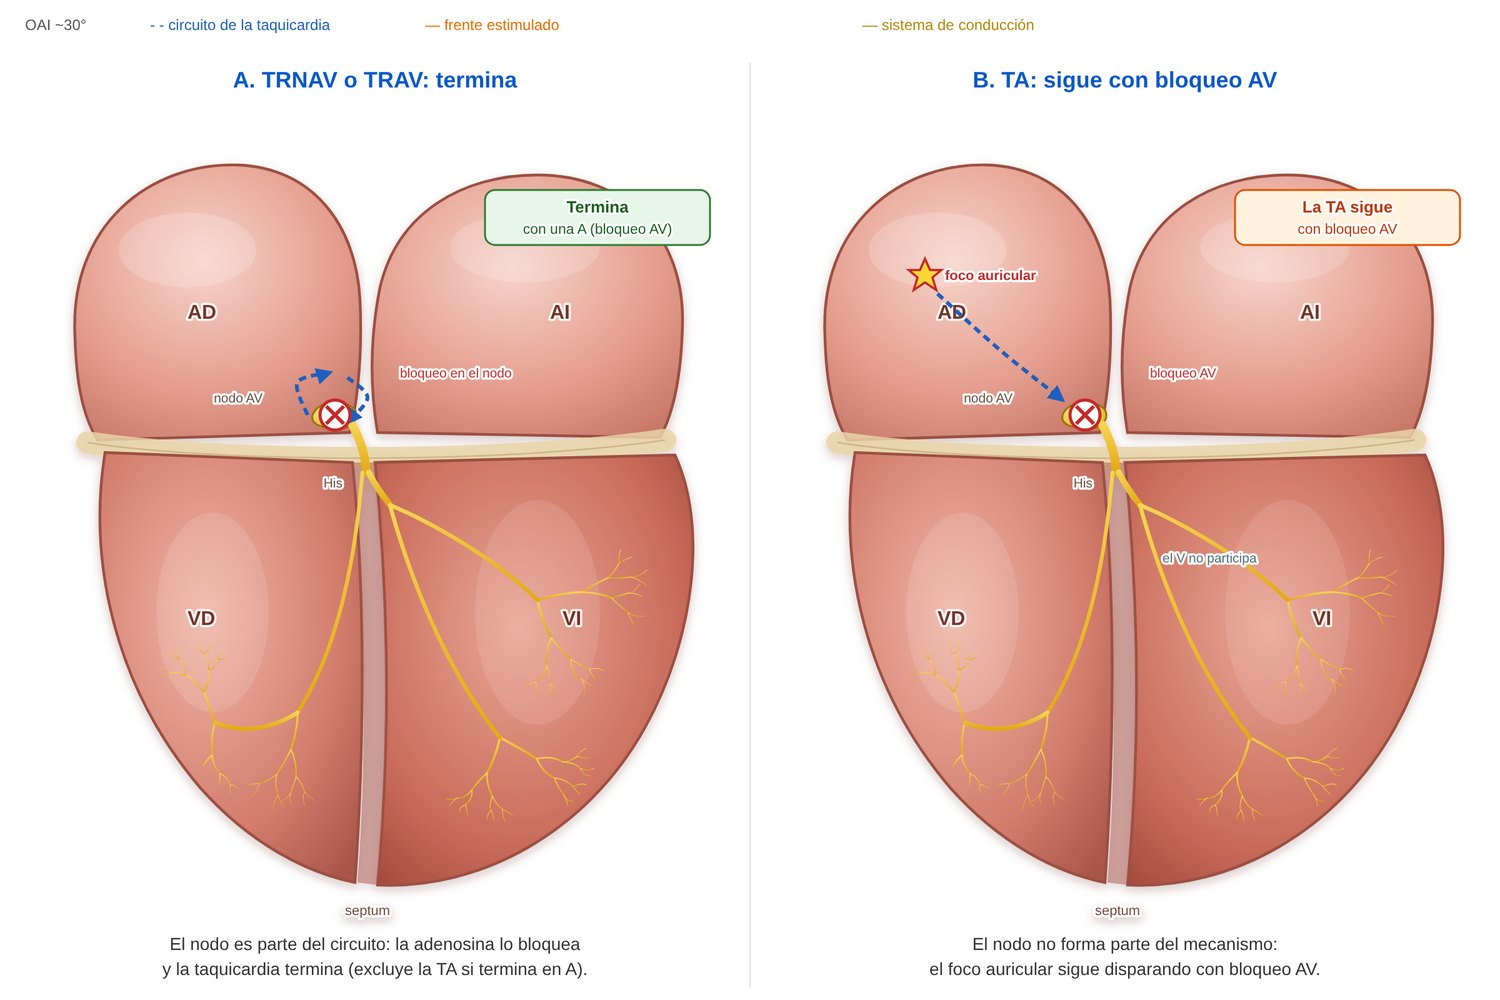
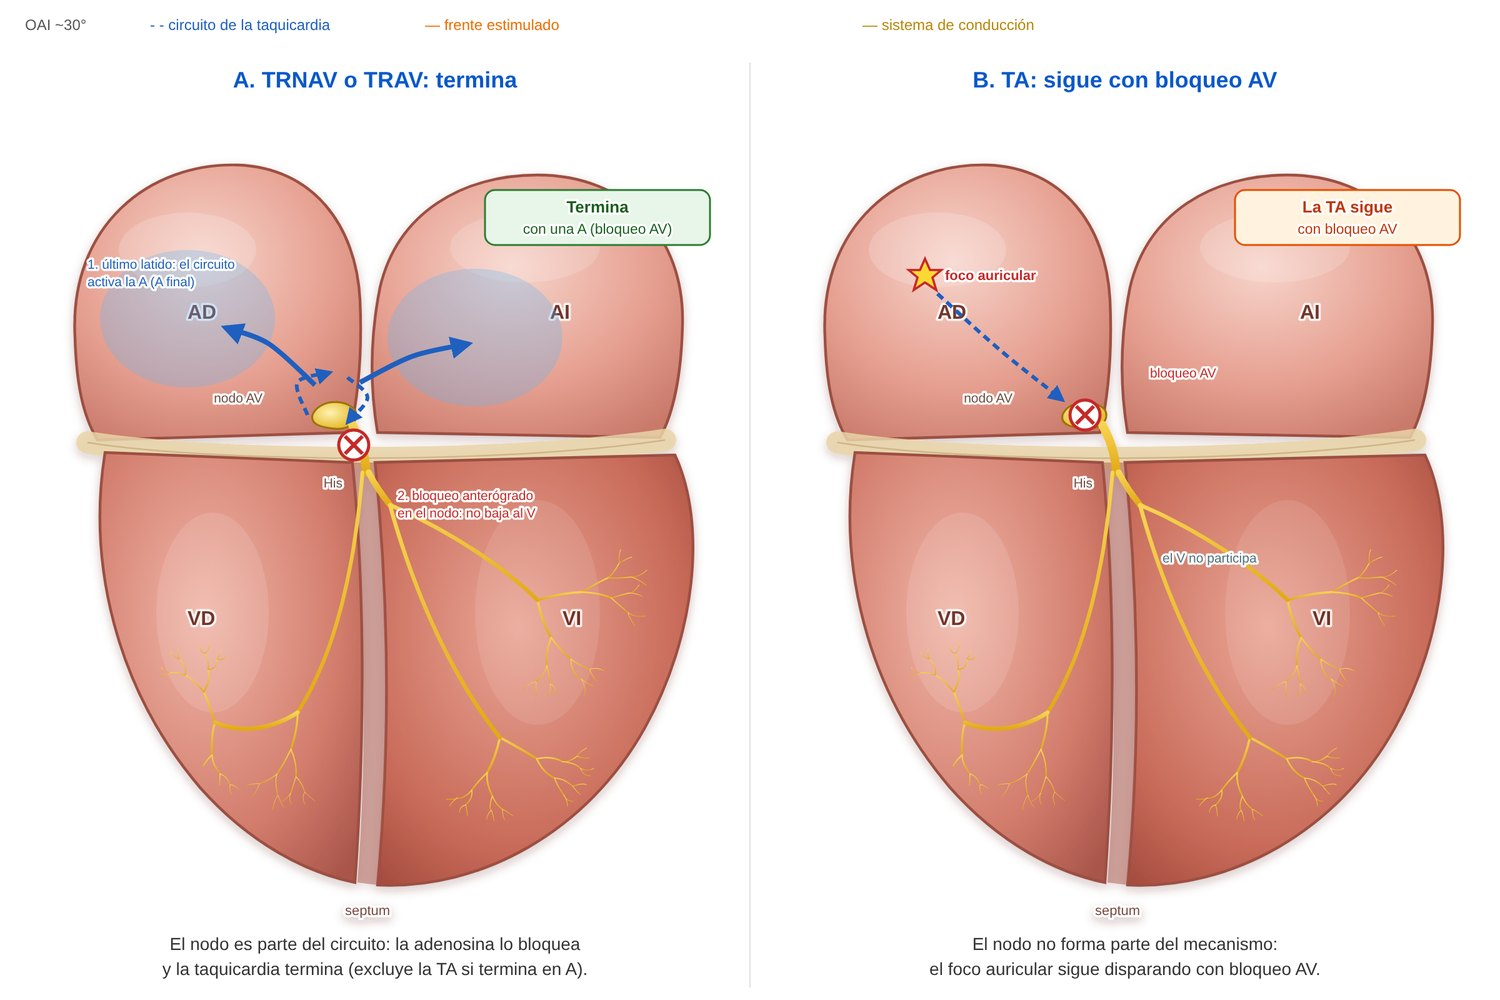
Esquema adenosina: muestra la activación auricular final y el bloqueo anterógrado en el nodo
Claude-Session: https://claude.ai/code/session_01Pw5rjt62KK5LeJZoEyFiaM

Changed region(s): [[0.0613, 0.248, 0.3987, 0.465], [0.2453, 0.465, 0.368, 0.527]]

diff --git a/sw.js b/sw.js
@@ -1,6 +1,6 @@
 // Permite instalar la app y abrirla sin conexión. Primero la red (siempre lo último publicado); si no hay, la copia.
 // Si cambiás un archivo, subí CACHE_VERSION.
-const CACHE_VERSION = 'mef-v102';
+const CACHE_VERSION = 'mef-v103';
 const ARCHIVOS = ['./', './index.html', './manifest.json', './iconos/icon-192.png', './iconos/icon-512.png'];
 self.addEventListener('install', e => e.waitUntil(caches.open(CACHE_VERSION).then(c => c.addAll(ARCHIVOS)).then(() => self.skipWaiting())));
 self.addEventListener('activate', e => e.waitUntil(caches.keys().then(ks => Promise.all(ks.filter(k => k !== CACHE_VERSION).map(k => caches.delete(k)))).then(() => self.clients.claim())));

diff --git a/herramientas/esquemas/esquemas.py b/herramientas/esquemas/esquemas.py
@@ -166,7 +166,13 @@ F['pre'] = (
      'Estimulando el ventrículo la A más precoz sale por la vía|(SC distal) y no se alarga con la frecuencia.'), [L_EST, L_PAS, L_CS])
 
 F['ado'] = (
-    ('A. TRNAV o TRAV: termina', TRNAV + xmark(NODO) + note(320, 232, 'bloqueo en el nodo', RED) + box('Termina', 'con una A (bloqueo AV)', True),
+    ('A. TRNAV o TRAV: termina', TRNAV
+     + '<ellipse cx="150" cy="185" rx="70" ry="55" fill="#64b5f6" opacity="0.3"/><ellipse cx="380" cy="200" rx="70" ry="55" fill="#64b5f6" opacity="0.3"/>'
+     + f'<path d="{smooth([(252, 238), (215, 205), (180, 192)])}" stroke="{BLUE}" stroke-width="4" fill="none" marker-end="url(#ab)"/>'
+     + f'<path d="{smooth([(288, 236), (330, 215), (375, 205)])}" stroke="{BLUE}" stroke-width="4" fill="none" marker-end="url(#ab)"/>'
+     + note(70, 145, '1. último latido: el circuito|activa la A (A final)', BLUE)
+     + xmark((283, 286), None) + note(318, 330, '2. bloqueo anterógrado|en el nodo: no baja al V', RED)
+     + box('Termina', 'con una A (bloqueo AV)', True),
      'El nodo es parte del circuito: la adenosina lo bloquea|y la taquicardia termina (excluye la TA si termina en A).'),
     ('B. TA: sigue con bloqueo AV', focus((140, 150), 'foco auricular') + circ((150, 165), (200, 210), (250, 250)) + xmark(NODO) + note(320, 232, 'bloqueo AV', RED)
      + note(330, 380, 'el V no participa', '#546e7a') + box('La TA sigue', 'con bloqueo AV', 'warn'),
